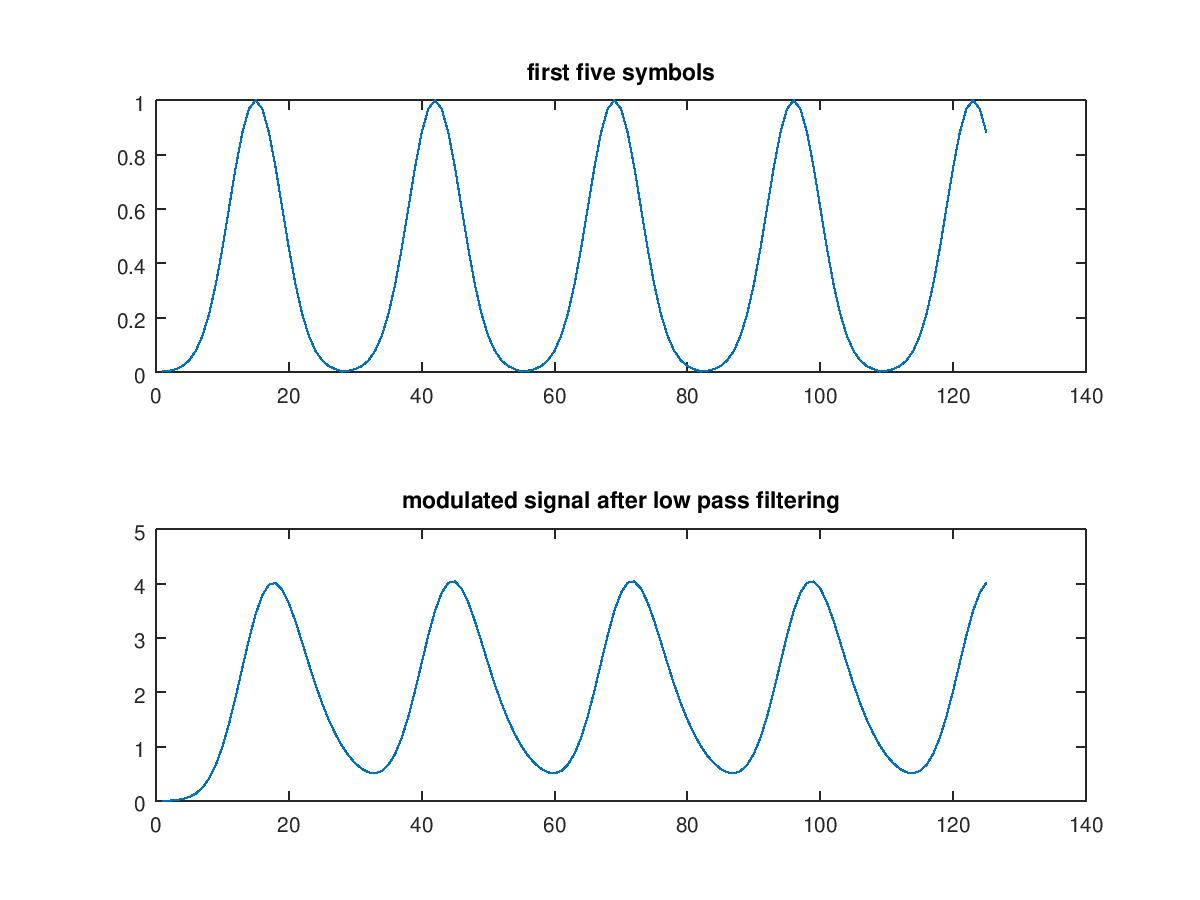
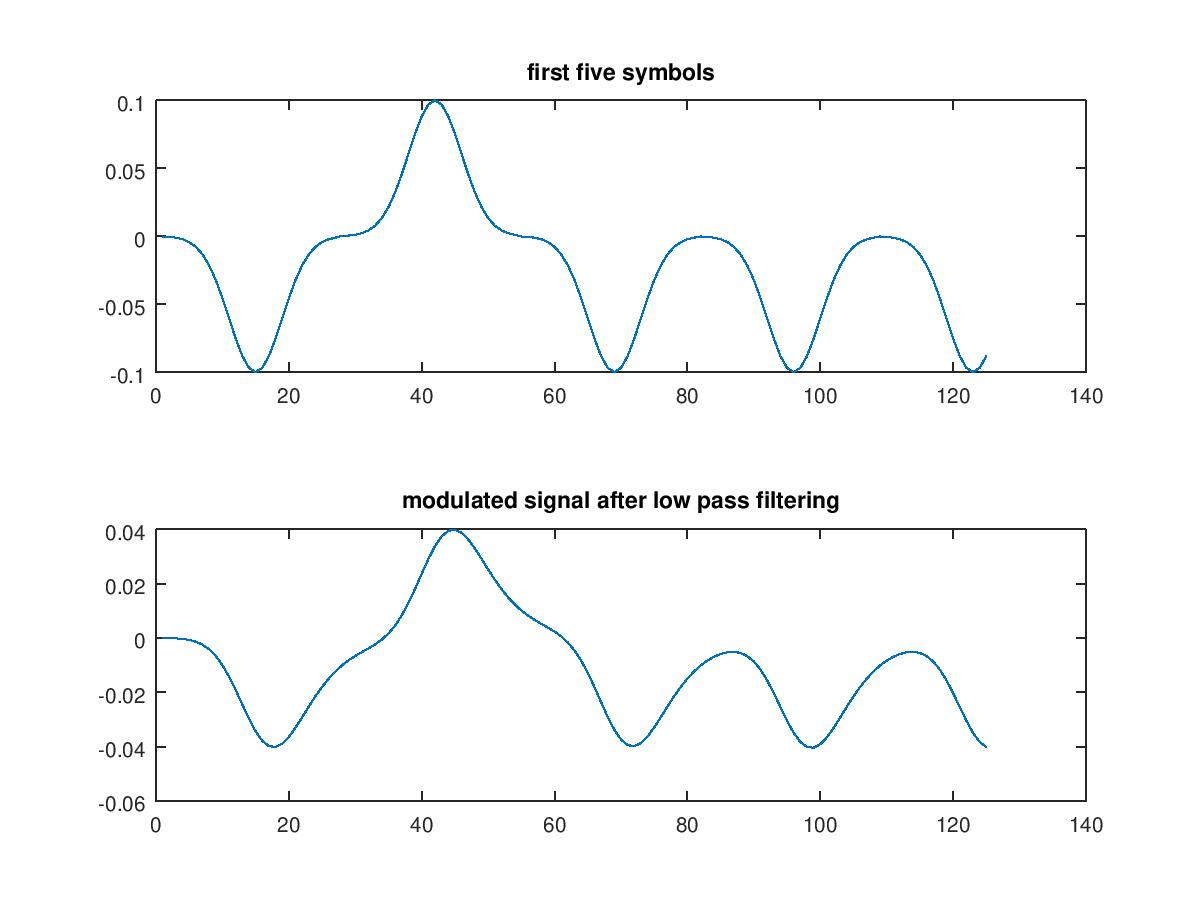
used the formula for impulse invariance as h[n] = T_s * h(n * T_s); removed unwanted commented code lines

diff --git a/hw6/hw6/matchedFilter.m b/hw6/hw6/matchedFilter.m
@@ -11,6 +11,7 @@ clear all;
 	figure;
 		plot(t,p);
 		title("pulse used for bpsk");
+		print -dpng "pulse.png"
 %finding the points at which amplitude goes beyond <tolerance specified>
 	idx = lookup(p((fs*2)+1:end),tolerance);
 	limit=t(idx+(fs*2));
@@ -19,7 +20,7 @@ clear all;
 	width = limit;
 %need to truncate the pulse in the limits . 
 	t_trunc = t((2*fs)-idx:(2*fs)+idx);
-	p_trunc = p((2*fs)-idx:(2*fs)+idx);
+	p_trunc = p((2*fs)-idx:(2*fs)+idx)/fs;  %multiplication by Ts as dictated by impulse invariance method
 	disp(["length of the sequence P_trunc = " num2str(length(p_trunc))])
 %modelling the low pass filter , taking the sampling freq(fs = 10) and tolerance = 0.001
 	tolerance = 0.001
@@ -27,7 +28,7 @@ clear all;
 	t = 0:1/fs:3;
 	h = exp(-t/RC);
 	idx = lookup(h,tolerance);
-	h_trunc = h(1:idx);
+	h_trunc = h(1:idx)/fs;
 	disp([" length of the sequence h at " num2str(fs) " and tolerance " num2str(tolerance) " is " num2str(length(h_trunc))])
 	figure
 		plot(t,h);
@@ -37,8 +38,6 @@ clear all;
 %generating random symbols for bpsk modulation
 	k = 10000; %be the number of arbitrary symbols
 	sk	= -1 + 2*(rand(1,k)>0.5);
-	%sk_1 = zeros(1,2000);
-	%sk_1(1:2:end) = sk;
 
 
 %generating pulses to be transmitted . 
@@ -66,42 +65,41 @@ clear all;
 	%multiplication by this parameter changes amplitude of the gaussian noise
 	for i = 1:5
 		tx_sig(i,:) = mod_sig_filtered+ variance_param(i).*randn(1,len_tx_sig);
+
 	endfor
 %matched filter reciever 
 	basis = conv(p_trunc,h_trunc);
 	matched_filter = basis(end:-1:1); 
 %decoding of symbols 
-%		len_basis = length(basis)
-%	sk_hat = conv(tx_sig(1,:),matched_filter);
-%	figure;
-%		subplot(2,1,1)
-%			stem(sk_hat(2*N:length(p_trunc):11*N));
-%			title("Estimated symbol s_^ k");
-%		subplot(2,1,2)
-%			stem(sk(1:10));
-%			title("original transmitted symbols (first 10)");
-%		print -dpng "symbol_detection.png"
-	
 	sk_hat = zeros(5,k);
 	for i = 1:5
 		matched_filter_out = conv(tx_sig(i,:),matched_filter);
 		sk_hat(i,:) = -1 + 2.*(matched_filter_out(2*N:length(p_trunc):end-length(matched_filter))>0);
 	end
-%plotting symbols
-	
-	figure;
-	subplot(2,1,1)
-		stem(sk_hat(5,1:10));
-		title("Estimated symbol ");
-	subplot(2,1,2)
-		stem(sk(1:10));
-		title("original transmitted symbols (first 10)");
-	print -dpng "symbol_detection.png"
+
 %calculation of bit error rate
 	error_rate = zeros(1,5);
 	for i = 1:5
 		error_rate(i) = sum((sk - sk_hat(i,1:k)) != 0) / k;
 	end
 	figure;
-	plot(error_rate);
 
+		plot([0.1 0.2 0.5 0.8 1.0],error_rate);
+		title("Bit Error rate");
+		grid on;
+		print -dpng "bit-error-rate.png"
+
+%plotting symbols
+	
+	figure;
+	subplot(3,1,1)
+		stem(sk(1:10));
+		title("original transmitted symbols (first 10)");
+
+	subplot(3,1,2)
+		plot(tx_sig(2,1:10*N));
+		title(["signal recieved for first 10 symbols at 0.2 * randn"] );
+	subplot(3,1,3)
+		stem(sk_hat(2,1:10));
+		title(["Estimated symbol at error-rate " num2str(error_rate(2))]);
+	print -dpng "symbol-detection.png"
